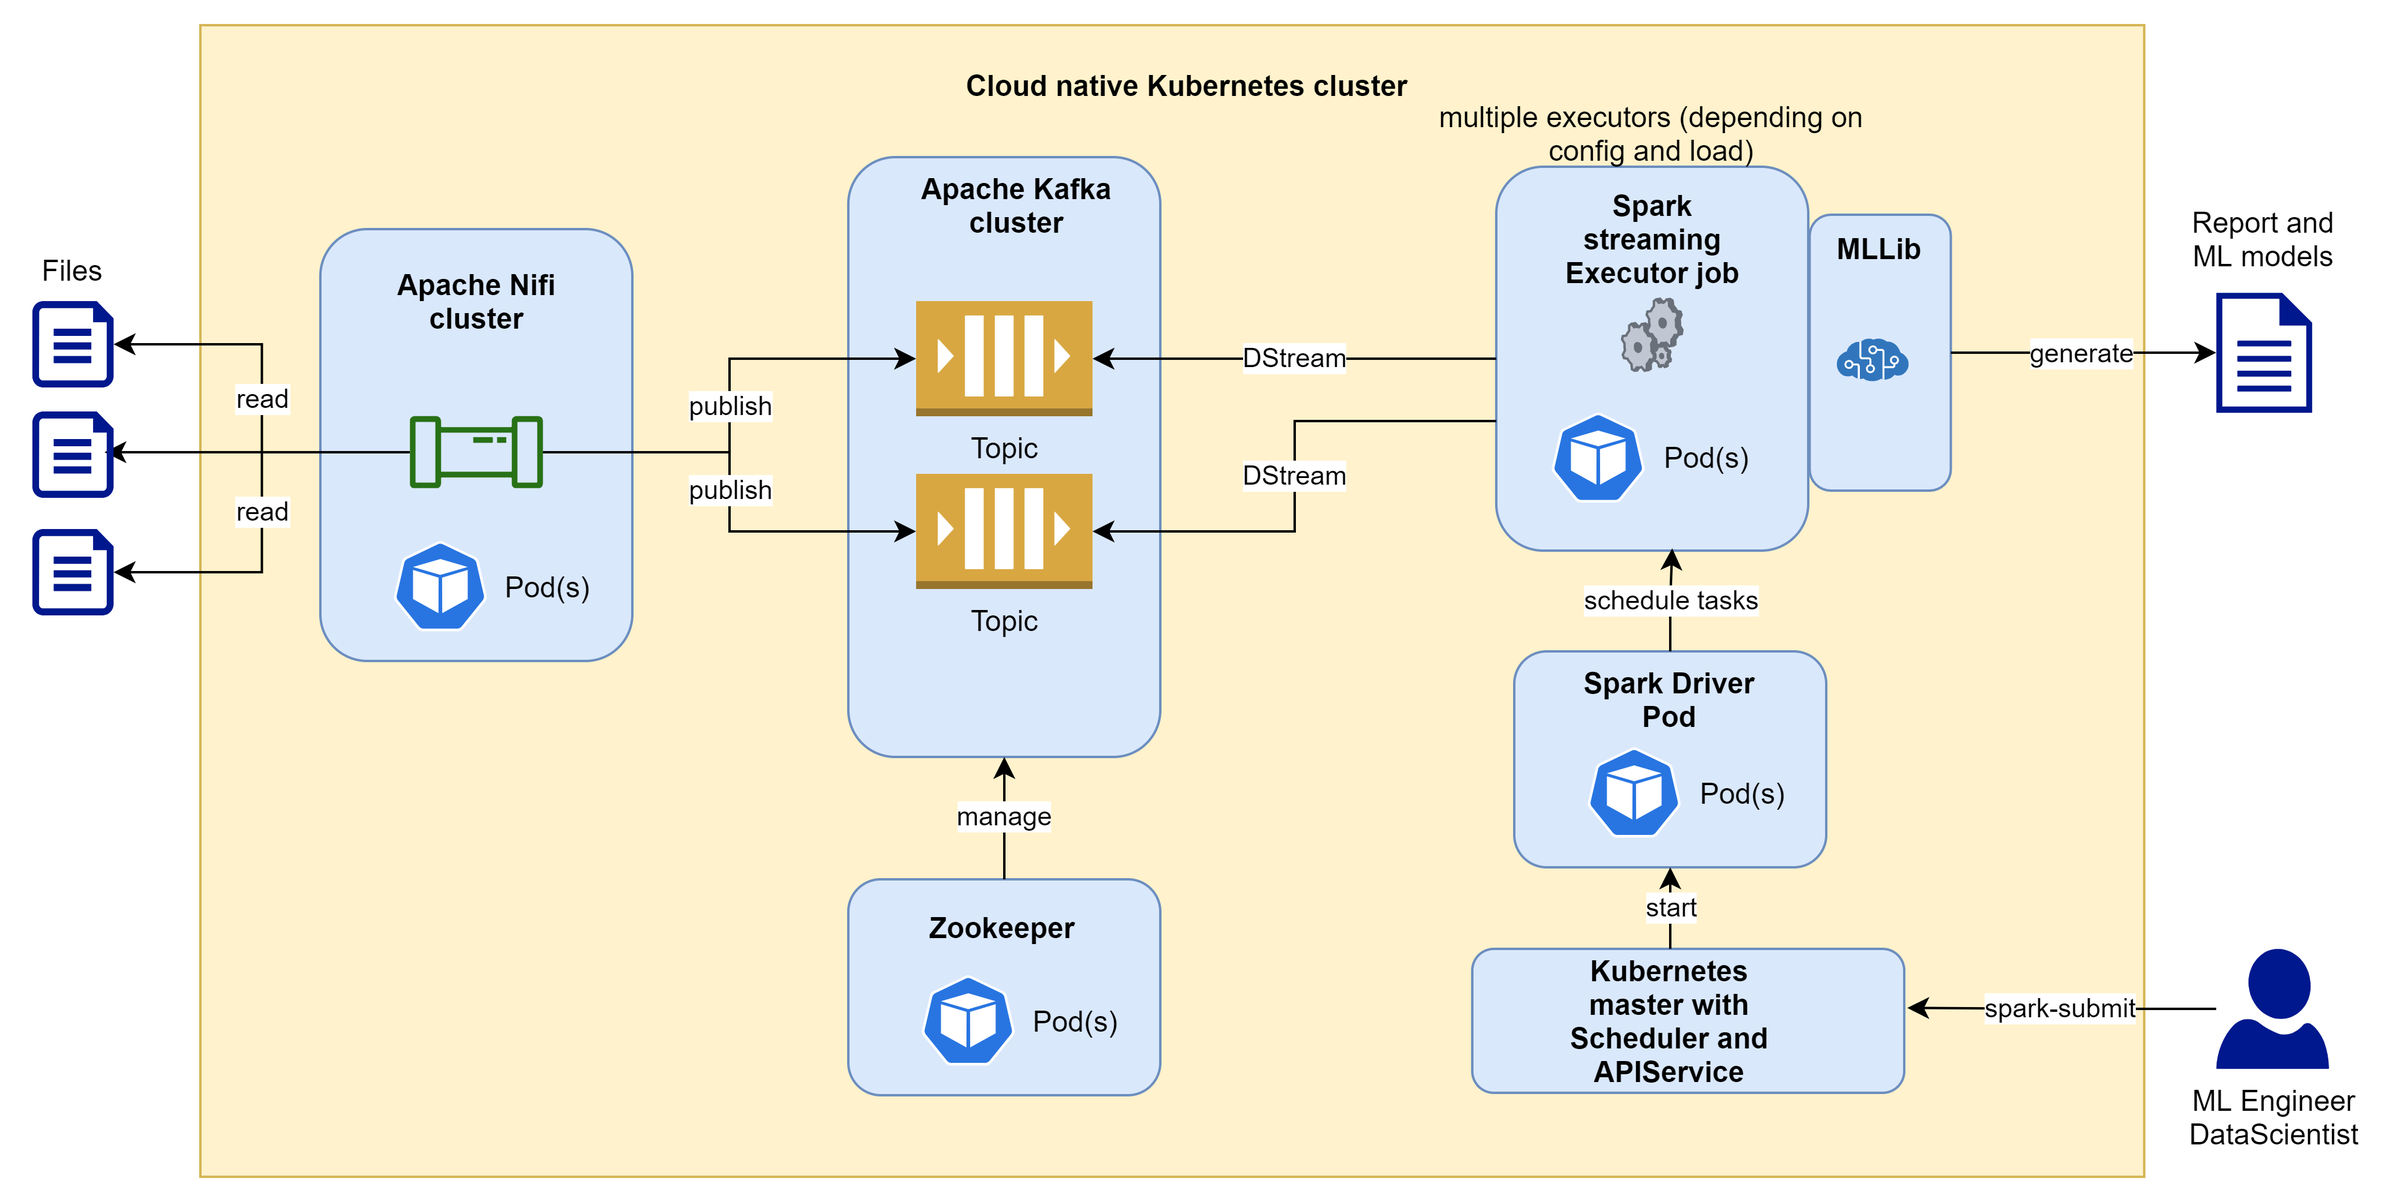
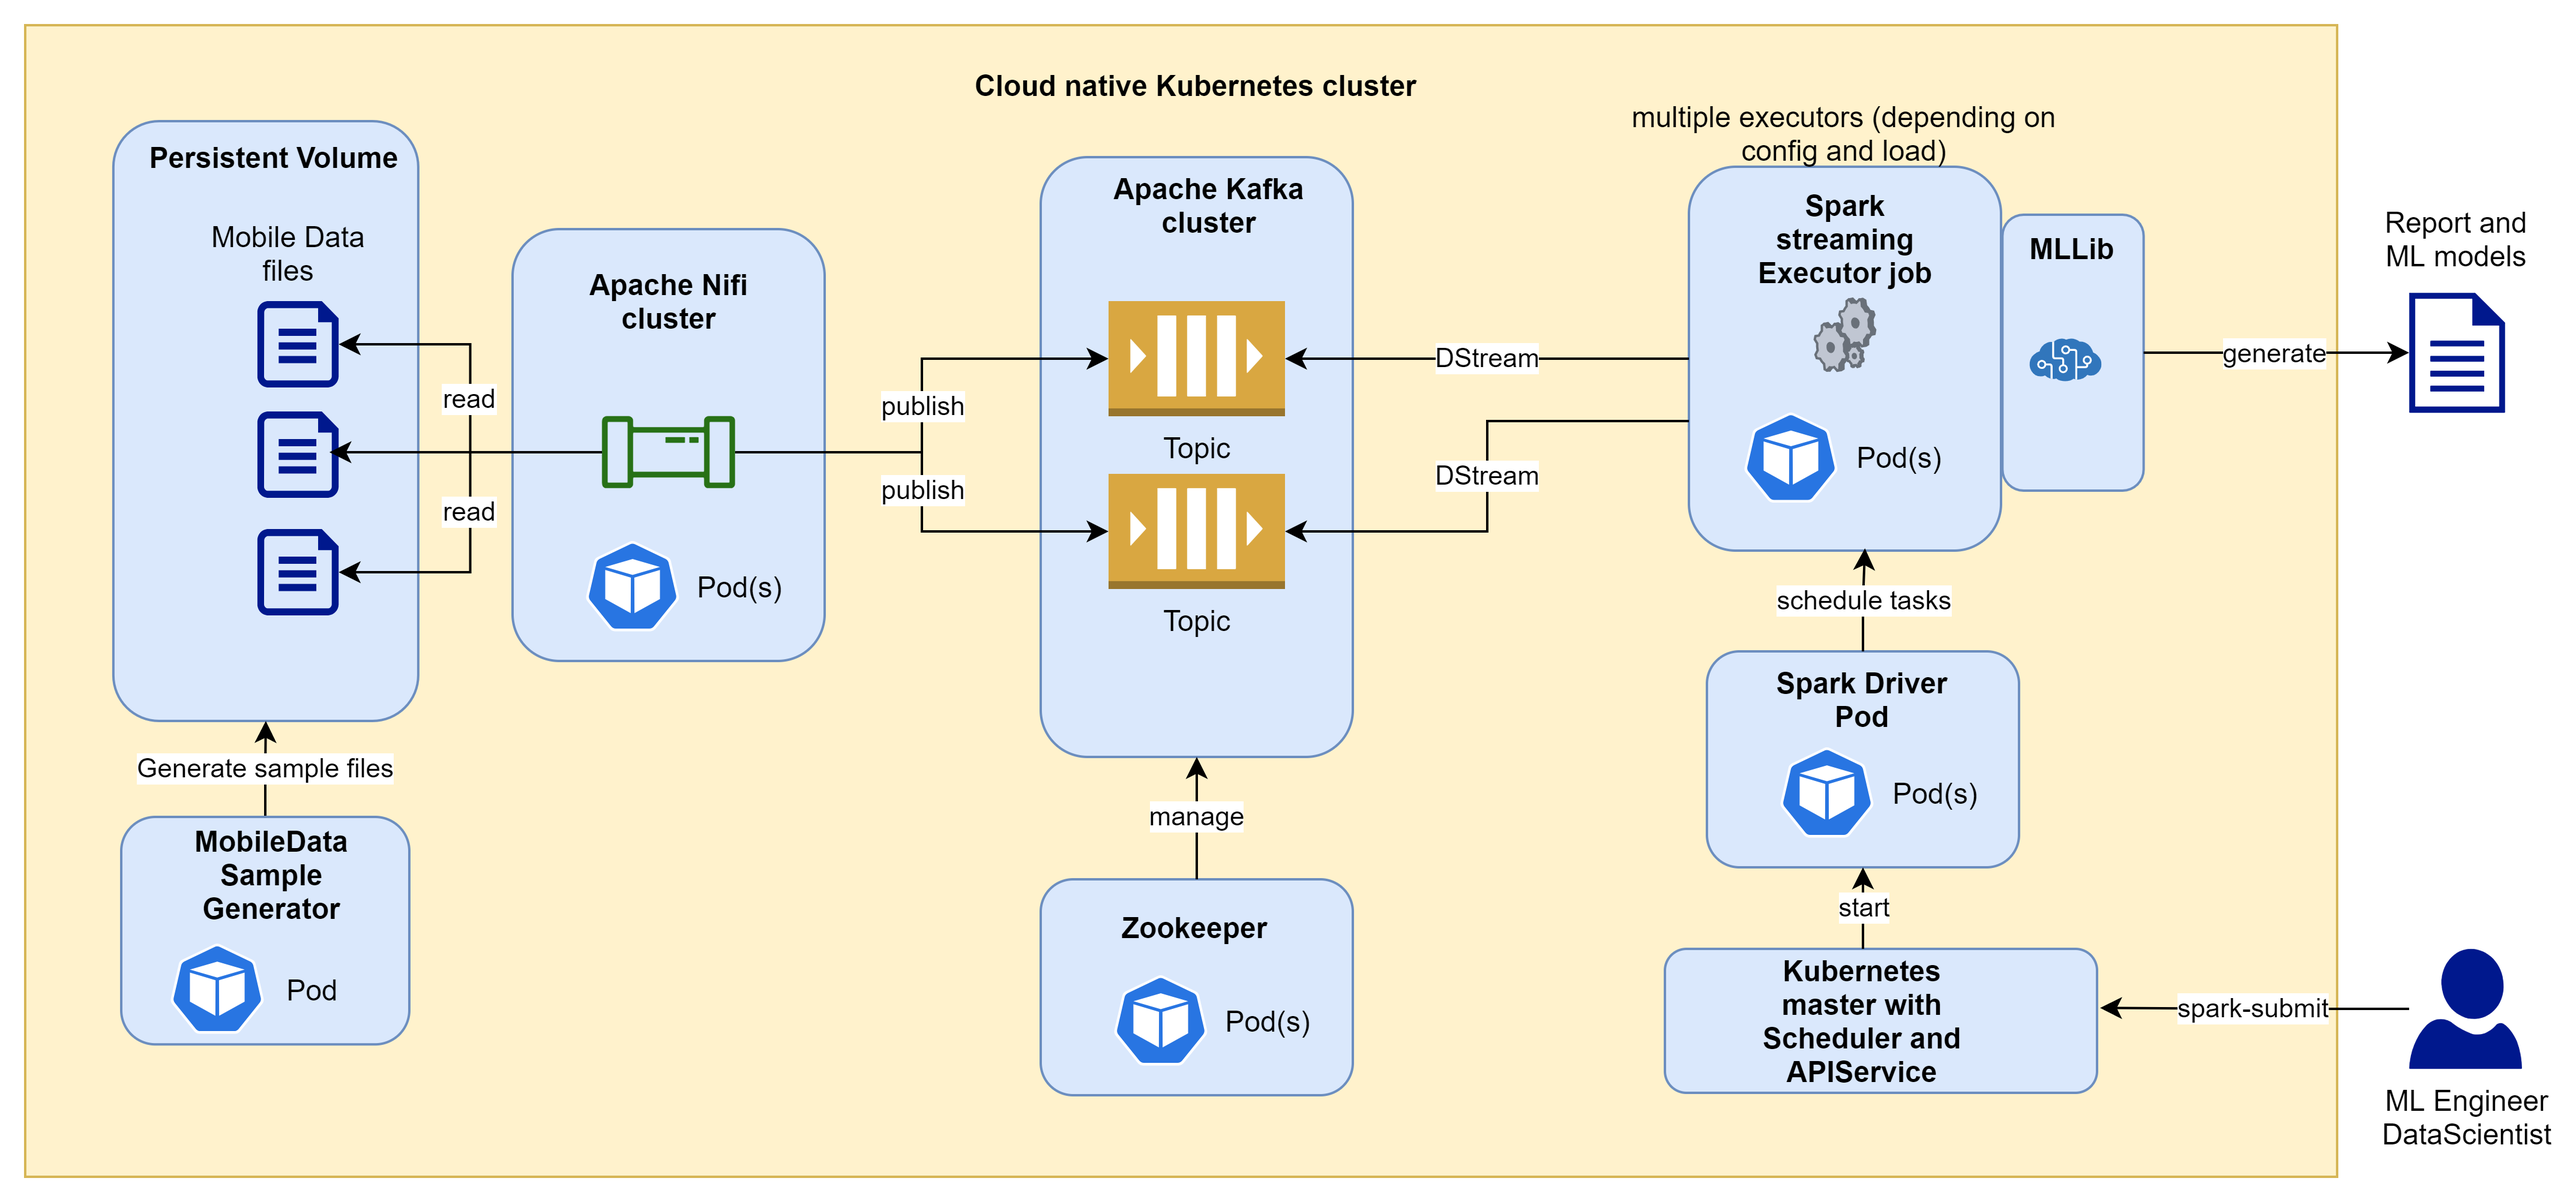
Update Spark app

diff --git a/README.md b/README.md
@@ -3,6 +3,9 @@
 ### Architecture of the multi cluster setup for large data volume scaling
 
 The application architecture is able to do realtime Machine Learning analytics on large scale data ingestion.
+The architecture is ready to process millions of data points, each component could be scaled in the cluster.
+
+As demonstration, a MobileGenerator Data is producing many CSV files to simulate real and not optimal data ingestion scenarios.
 
 ![](images/ArchitectureDataArchitecture-Project.png)
 
@@ -88,6 +91,9 @@ On Kubernetes environment
 2. In the operation panel window, import the file ReadFilesAndPublishToKafka.xml
 3. Drag and drop the imported template from the template menu to the canvas
 4. Use the Nifi workflow as described in the screenshot
+   1. Start The GetFile, The SplitRecord and the PublishKafka processor
+   2. See how the data flows from processor to processor over the queues
+   3. If a prpcessor is not started, the data is queued (could be viewed with tight click && list queue)
 ![](images/NifiControl.png)
 
 #### 3. Optional (when code changes) - Build spark application
